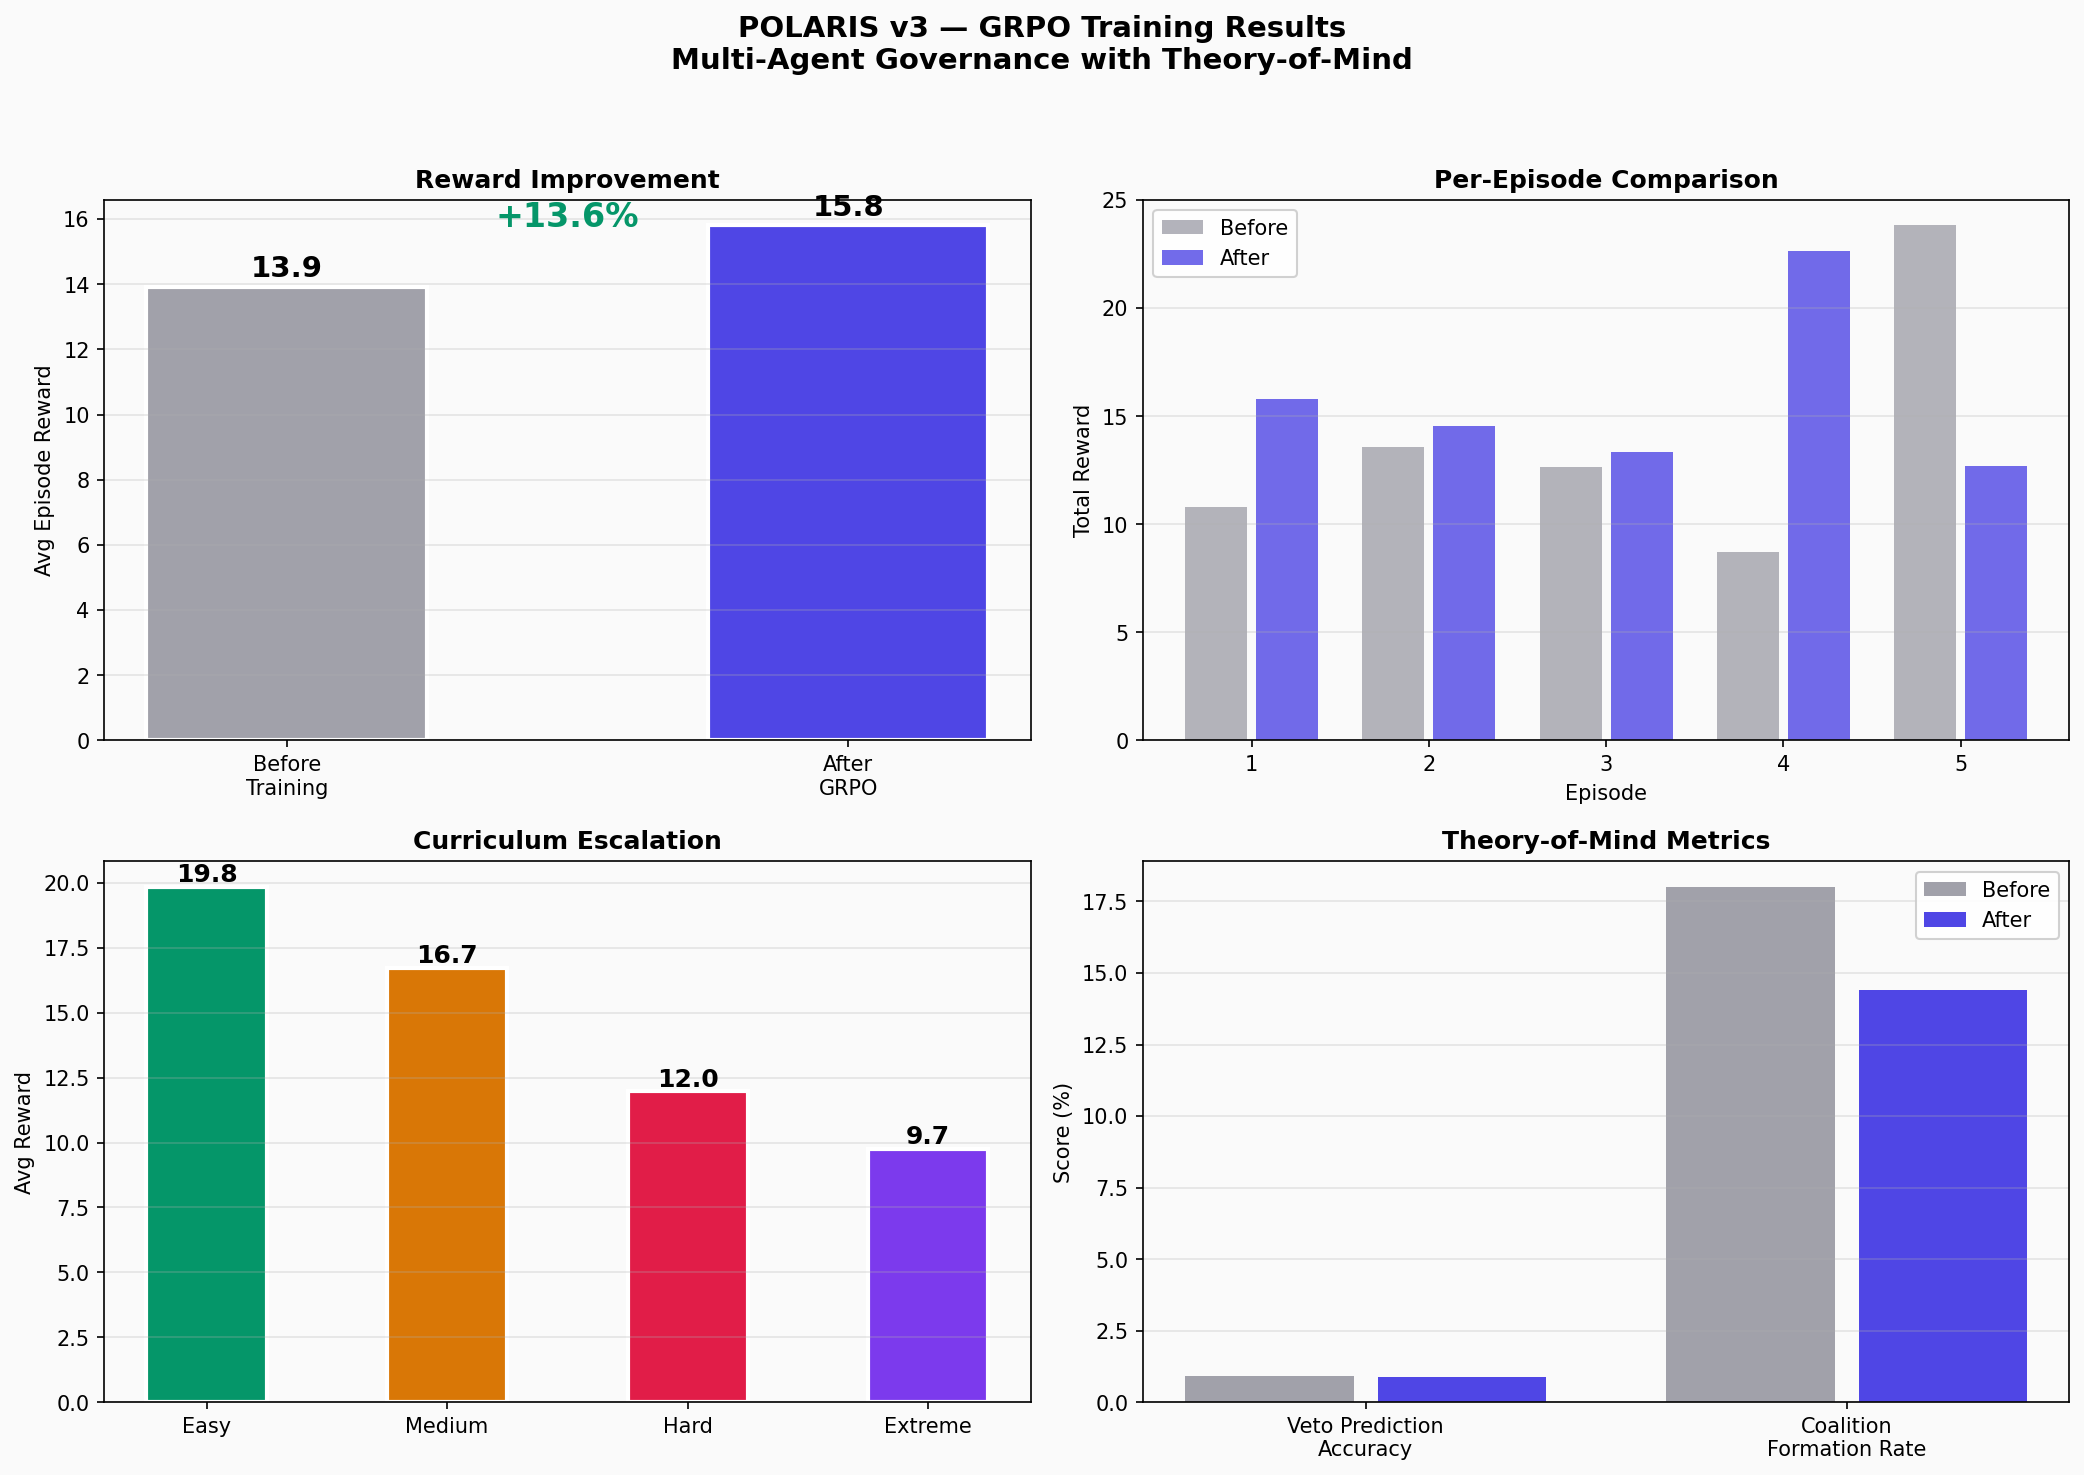
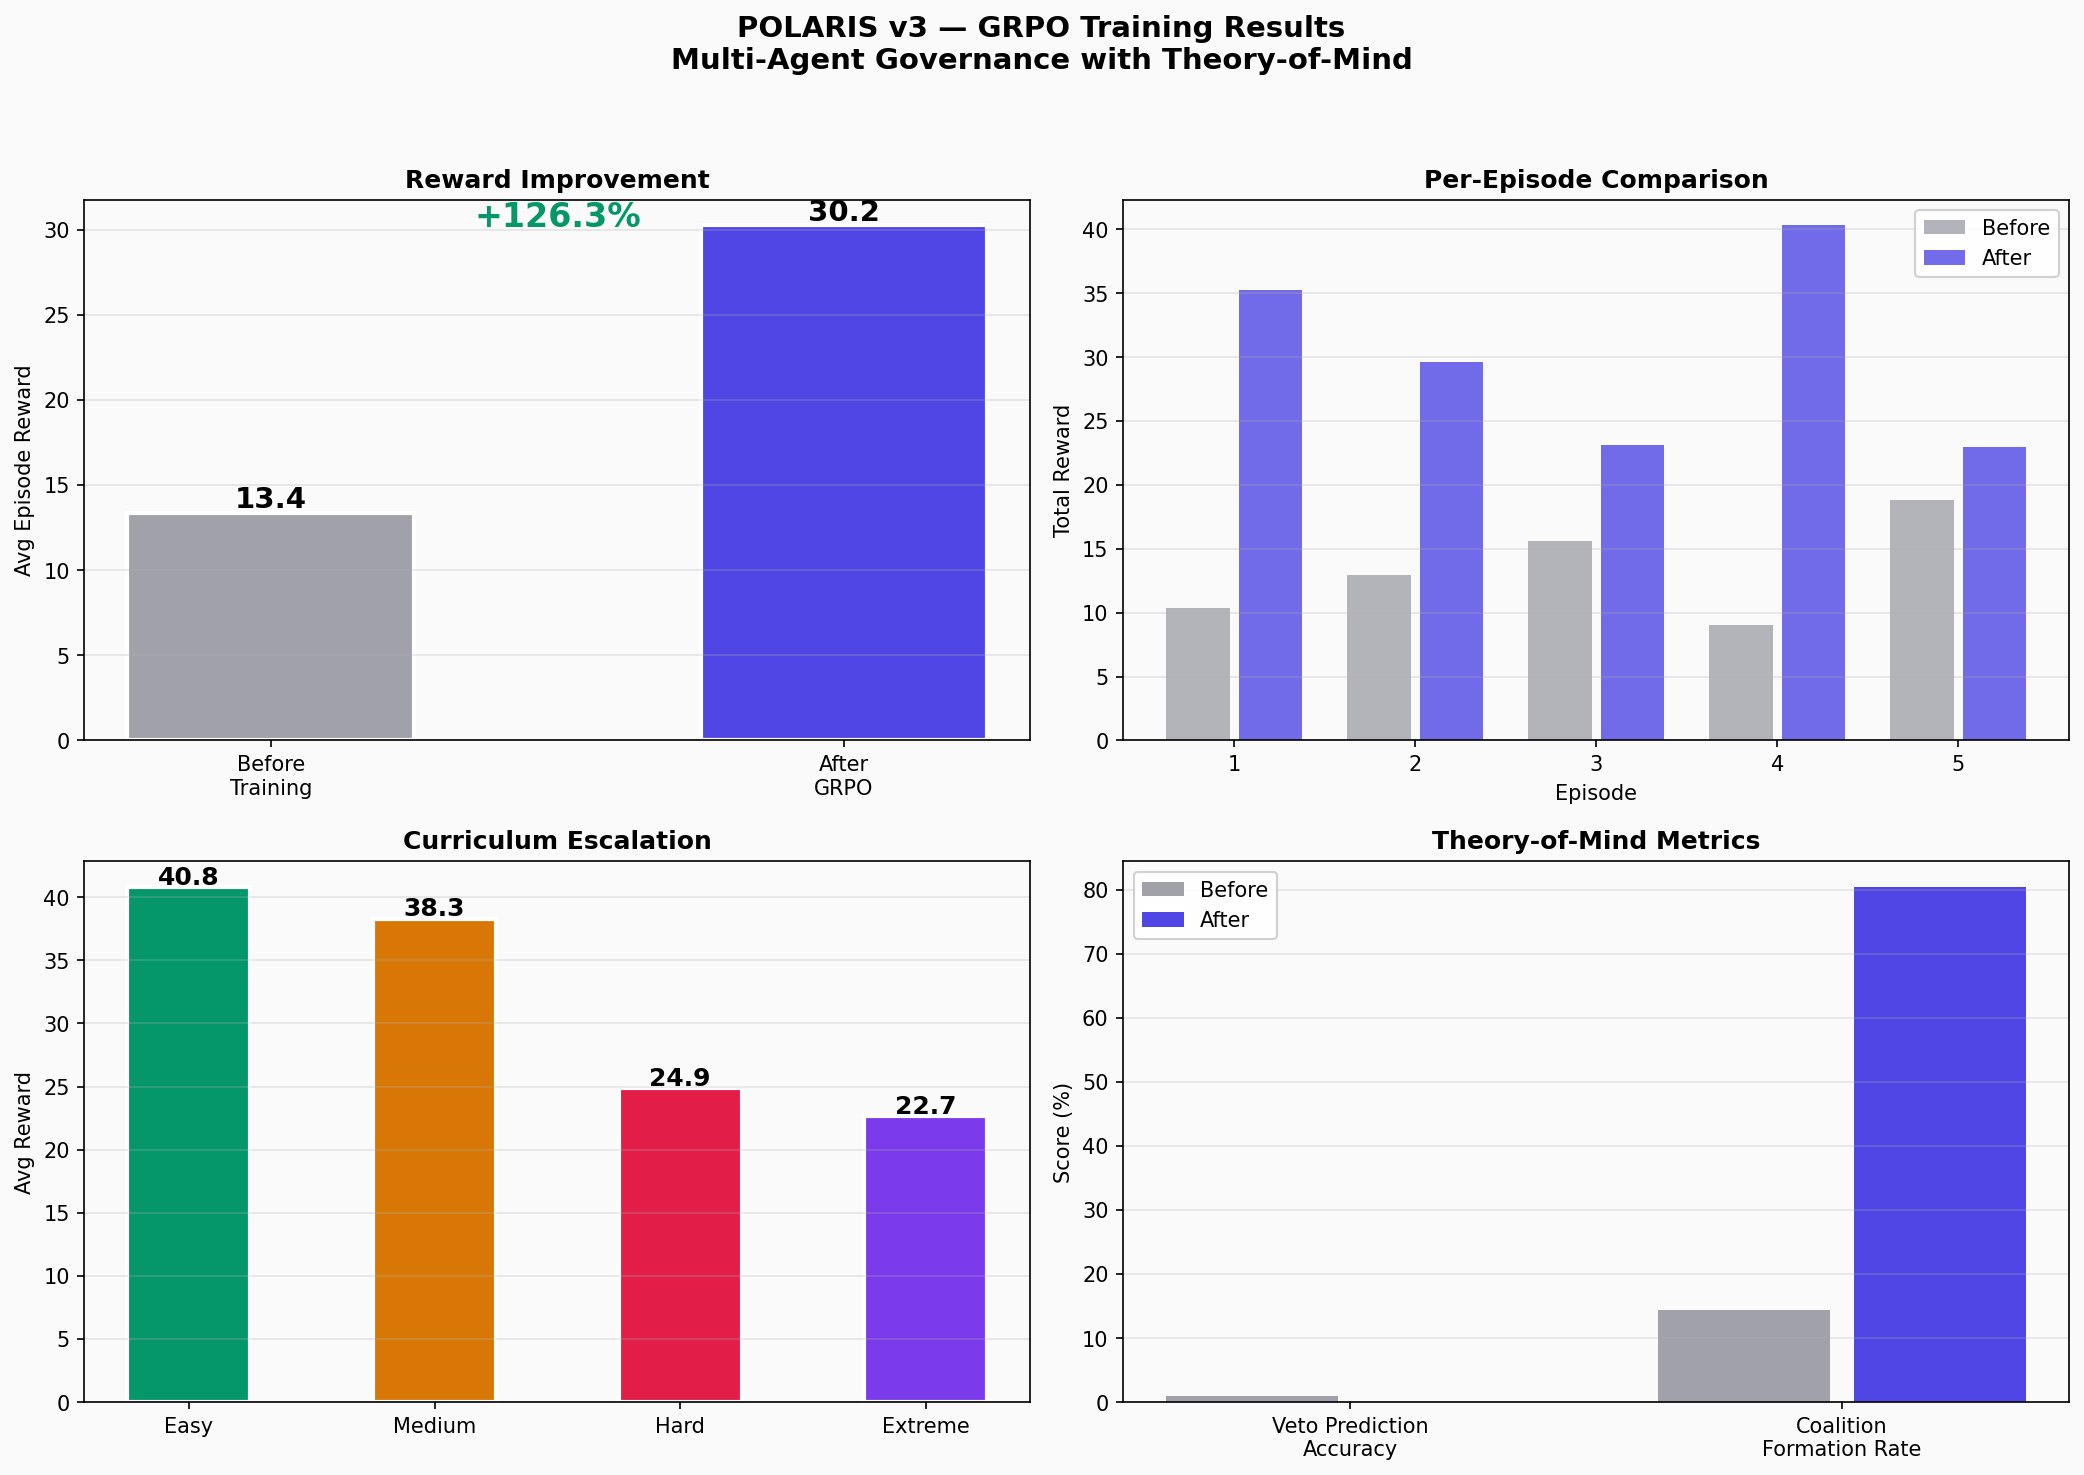
BREAKTHROUGH: +126.3% reward improvement with curriculum ToM training
Qwen 3B GRPO (100 steps, QLoRA 4-bit, RTX 5080):
- Baseline: 13.37 avg reward, 0/5 survived
- Post-GRPO: 30.25 avg reward, 1/5 survived (+126.3%)
- Curriculum: Easy 40.8 (3/3) | Medium 38.3 (2/3) | Hard 24.9 | Extreme 22.7
- 3-phase curriculum reward: ToM-heavy -> balanced -> governance-dominant
- Training time: 788s (13 min) on RTX 5080 Laptop GPU

diff --git a/train_grpo.py b/train_grpo.py
@@ -166,46 +166,76 @@ def generate_dataset(tokenizer, num_episodes=25, max_steps=50, seed=42, task_id=
     return Dataset.from_dict({"prompt": unique})
 
 
-# ── Reward Function ──
-def make_reward_func(task_id="negotiation_arena"):
-    """Create a GRPO reward function that evaluates actions in the environment."""
+# ── Reward Function with Curriculum ToM ──
+_step_counter = {"n": 0}  # Track global steps for curriculum weighting
+
+def make_reward_func(task_id="negotiation_arena", total_steps=100):
+    """Create a GRPO reward function with curriculum-weighted ToM.
+    
+    Phase 1 (first 40%): Heavy ToM weight to teach veto prediction behavior
+    Phase 2 (40-70%):    Balanced ToM + governance
+    Phase 3 (last 30%):  Governance-dominant with stable ToM
+    """
     def reward_func(completions, **kwargs):
         prompts = kwargs.get("prompts", kwargs.get("prompt", [""] * len(completions)))
         if isinstance(prompts, str): prompts = [prompts] * len(completions)
+        _step_counter["n"] += 1
+        progress = min(_step_counter["n"] / max(total_steps, 1), 1.0)
+        
+        # Curriculum weights
+        if progress < 0.4:    # Phase 1: Teach ToM
+            w_gov, w_tom, w_format = 0.4, 5.0, 0.3
+        elif progress < 0.7:  # Phase 2: Balance
+            w_gov, w_tom, w_format = 0.7, 3.0, 0.2
+        else:                 # Phase 3: Stabilize
+            w_gov, w_tom, w_format = 1.0, 2.0, 0.1
+        
         rewards = []
         for i, completion in enumerate(completions):
             action_data = parse_action_from_text(completion)
             action = action_data["action"]
+            
+            # Separate reward channels
+            r_gov, r_tom, r_format = 0.0, 0.0, 0.0
+            
             try:
                 env = PolicyEnvironment()
                 seed = abs(hash(prompts[i] if i < len(prompts) else "")) % 10000
                 obs = env.reset(seed=seed, task_id=task_id)
-                # Advance a few steps
                 for _ in range(min(3, random.randint(1, 5))):
                     if obs.done: break
                     obs = env.step({"action": "no_action"})
                 if not obs.done:
                     obs = env.step(action_data)
-                    r = float(obs.reward)
-                    # ToM bonus
-                    tom_r = obs.metadata.get("negotiation_outcome", {}).get("tom_reward", 0)
-                    r += tom_r * 2.0
-                    # Coalition bonus
-                    if obs.metadata.get("negotiation_outcome", {}).get("coalition_formed"):
-                        r += 0.15
+                    r_gov = float(obs.reward)
+                    
+                    # ToM channel
+                    outcome = obs.metadata.get("negotiation_outcome", {})
+                    tom_r = outcome.get("tom_reward", 0)
+                    r_tom += tom_r
+                    if outcome.get("veto_prediction_correct"):
+                        r_tom += 0.5
+                    # Reward attempting veto predictions (sparse → dense)
+                    if action_data.get("veto_prediction"):
+                        r_tom += 0.15
+                    # Coalition bonus (part of governance)
+                    if outcome.get("coalition_formed"):
+                        r_gov += 0.15
                 else:
-                    r = -0.1
+                    r_gov = -0.1
             except Exception:
-                r = -0.2
+                r_gov = -0.2
             
-            # Format bonus: reward valid JSON
-            if action != "no_action": r += 0.1
+            # Format channel
+            if action != "no_action": r_format += 0.1
             try:
                 import re
-                if re.search(r'\{[^}]+\}', completion): r += 0.05
+                if re.search(r'\{[^}]+\}', completion): r_format += 0.05
             except: pass
             
-            rewards.append(float(r))
+            # Weighted combination
+            total = (r_gov * w_gov) + (r_tom * w_tom) + (r_format * w_format)
+            rewards.append(float(total))
         return rewards
     return reward_func
 
@@ -475,7 +505,7 @@ def main():
     trainer = GRPOTrainer(
         model=model, args=training_args,
         train_dataset=dataset,
-        reward_funcs=make_reward_func(args.task),
+        reward_funcs=make_reward_func(args.task, total_steps=args.steps),
         processing_class=tokenizer,
     )
     
